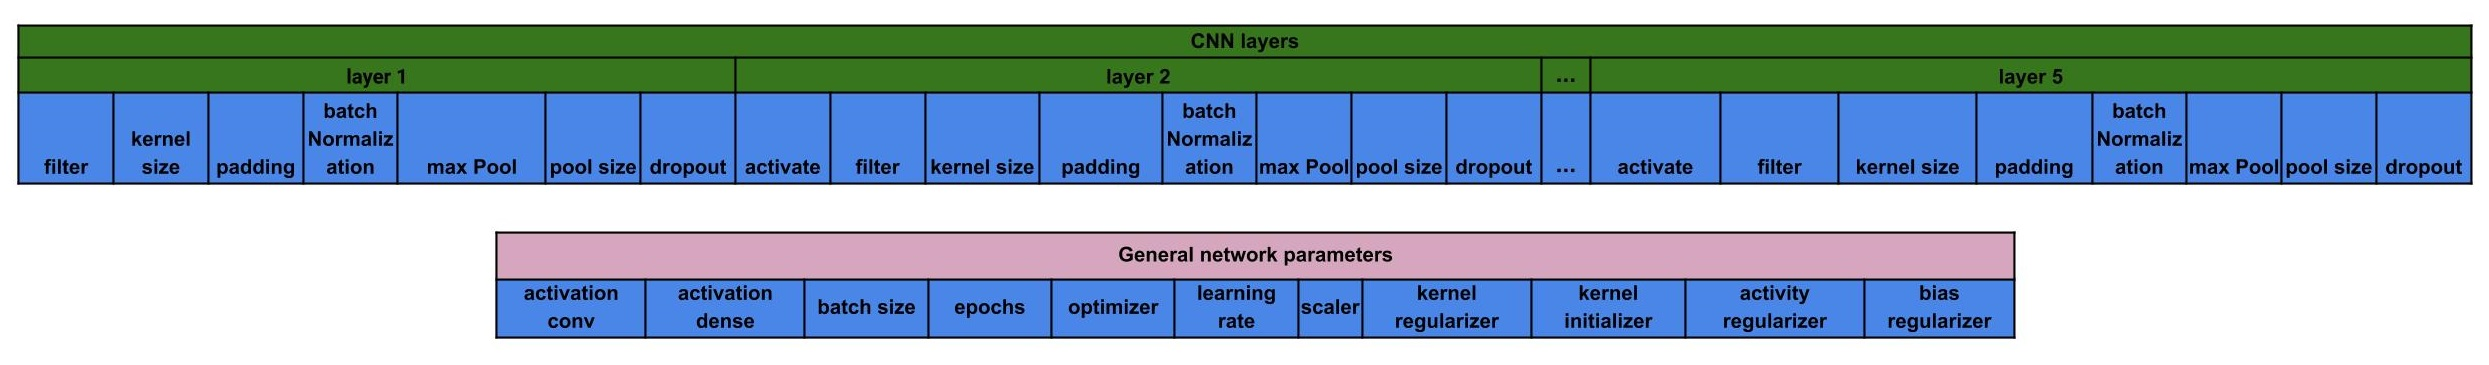
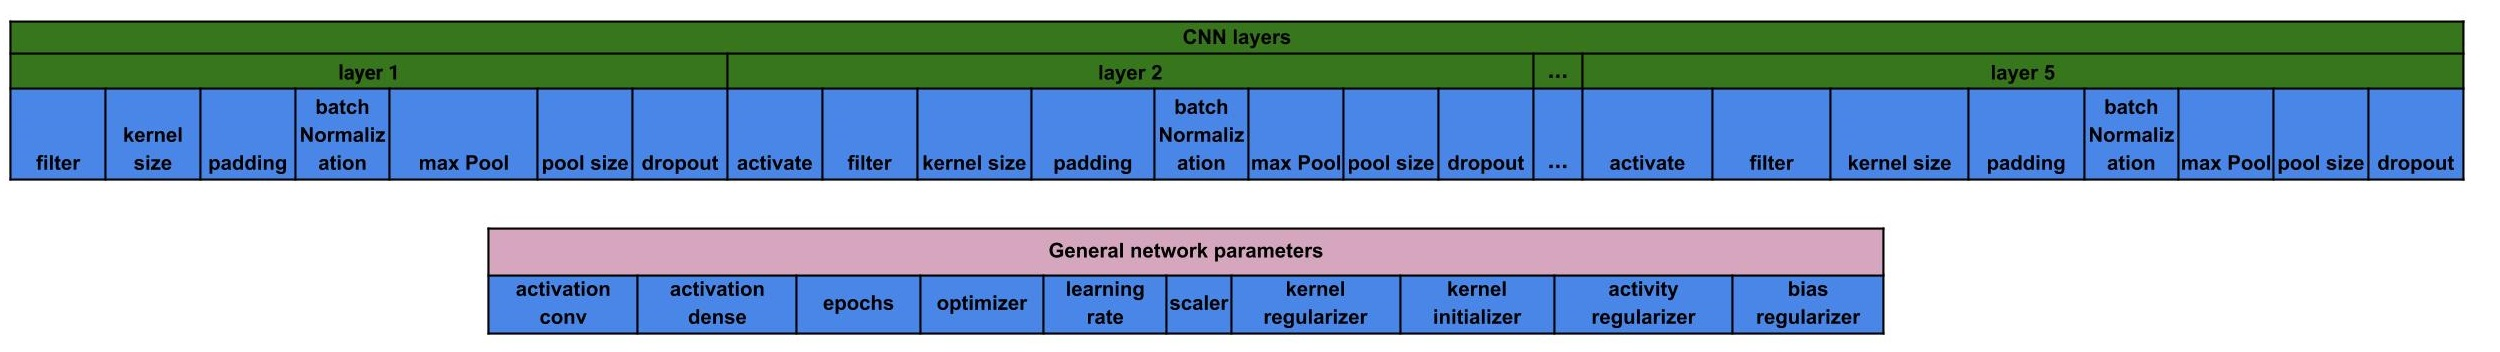
chg: dev: remove batch size from GA

Changed region(s): [[0.0, 0.0312, 1.0, 0.5312], [0.1856, 0.625, 0.8353, 0.9688]]

diff --git a/nnga/genetic_algorithm/__init__.py b/nnga/genetic_algorithm/__init__.py
@@ -6,7 +6,6 @@ CHECK_PARAMETERS_INTERVAL = {
     "MAX_POOL": [True, False],
     "POOL_SIZE": {"MIN": 2, "MAX": 20},
     "BATCH_NORMALIZATION": [True, False],
-    "BATCH_SIZE": {"MIN": 1, "MAX": 15},
     "EPOCHS": {"MIN": 1, "MAX": 2000},
     "DROPOUT": {"MIN": 0.0, "MAX": 1.0},
     "OPTIMIZER": [
@@ -77,7 +76,6 @@ PARAMETERS_INTERVAL = {
     "MAX_POOL": {"type": "string", "value": [True, False]},
     "POOL_SIZE": {"type": "numbers", "value": None},
     "BATCH_NORMALIZATION": {"type": "string", "value": [True, False]},
-    "BATCH_SIZE": {"type": "numbers", "value": None},
     "EPOCHS": {"type": "numbers", "value": None},
     "DROPOUT": {"type": "numbers", "value": None},
     "OPTIMIZER": {"type": "string", "value": None},
@@ -98,7 +96,6 @@ PARAMETERS_INTERVAL = {
 PARAMETERS_ARCHITECTURE = {
     "DEFAULT": {
         "activation_dense": "ACTIVATION_DENSE",
-        "batch_size": "BATCH_SIZE",
         "epochs": "EPOCHS",
         "optimizer": "OPTIMIZER",
         "learning_rate": "LEARNING_RATE",
@@ -150,7 +147,7 @@ def set_parameters(parameters, architecture, backbone, features):
     for key, value in parameters.items():
         PARAMETERS_INTERVAL[key]["value"] = value
 
-    check_parameters()
+    __check_parameters()
     ENCODING, NAME_FEATURES_SELECTION = create_encoding(
         architecture, backbone, features
     )
@@ -158,13 +155,8 @@ def set_parameters(parameters, architecture, backbone, features):
     return ENCODING, NAME_FEATURES_SELECTION, PARAMETERS_INTERVAL
 
 
-def check_parameters():
-    """Check the parameters provided by cfg
-    Parameters
-        ----------
-        Returns
-        -------
-    """
+def __check_parameters():
+    """Check the parameters provided by cfg"""
     for key, parameter in PARAMETERS_INTERVAL.items():
         if key not in CHECK_PARAMETERS_INTERVAL.keys():
             continue

diff --git a/nnga/callbacks/model_checkpoint.py b/nnga/callbacks/model_checkpoint.py
@@ -95,10 +95,9 @@ class ModelCheckpoint(Callback):
 
         if os.path.exists(os.path.join(self.modelpath, "saved_model.pb")):
             self.model = load_model(self.modelpath)
-            if self.verbose:
-                self.logger.info(
-                    f"Weights loaded from file found in {self.modelpath}"
-                )
+            self.logger.info(
+                f"Weights loaded from file found in {self.modelpath}"
+            )
 
     def on_epoch_end(self, epoch, logs=None):
         current = logs.get(self.monitor)

diff --git a/nnga/configs/defaults.py b/nnga/configs/defaults.py
@@ -35,7 +35,6 @@ _C.GA.SEARCH_SPACE.UNITS = [20, 50, 80, 100, 150, 200, 250, 500]
 _C.GA.SEARCH_SPACE.FILTERS = [4, 5, 6, 7, 8, 9]
 _C.GA.SEARCH_SPACE.KERNEL_SIZE = [2, 3, 4, 5, 6]
 _C.GA.SEARCH_SPACE.POOL_SIZE = [2, 3, 4, 5]
-_C.GA.SEARCH_SPACE.BATCH_SIZE = [3, 4, 5, 6, 7, 8]
 _C.GA.SEARCH_SPACE.EPOCHS = [30, 45, 60, 90, 120, 150, 200]
 _C.GA.SEARCH_SPACE.DROPOUT = [0.0, 0.1, 0.2, 0.3, 0.4]
 _C.GA.SEARCH_SPACE.OPTIMIZER = ["Adam", "SGD"]

diff --git a/README.md b/README.md
@@ -176,28 +176,26 @@ Not yet implemented
 ## Parameters optimized by the Genetic Algorithm
 ### Optimized parameters for each layer of the Convolutional  Neural Network:
 
-| Parameter | activate | filter | kernel_size | padding | batch_normalization | max_pool | pool_size | dropout |
-| :---: | :---: | :---: | :---: | :---: | :---: | :---: | :---: |  :---: | 
-| Values | True <br/> False | List of integers contained in the range [1:10]. The number of filters is defined by the function: filters = 2^i, where i is the provided value. | List of integers contained in the range [1:20]  | valid <br/> same | True <br/> False | True <br/> False | List of integers contained in the range [1:20] | List of floats contained in the range [0.0:1.0] |
-| Default Values | True <br/> False | [4, 5, 6, 7, 8, 9] | [2, 3, 4, 5, 6]  | valid <br/> same | True <br/> False | True <br/> False | [2, 3, 4, 5] | [0.0, 0.1, 0.2, 0.3, 0.4] |
-| Description | True: this layer is added to the model  <br/><br/> False: this layer is not added to the model  | Integer, the dimensionality of the output space (i.e. the number of output filters in the convolution) | Integer, specifying the height and width of the 2D convolution window. The same value will be used for both dimensions. | Valid: means "no padding" <br/><br/> Same:  results in padding the input such that the output has the same length as the original input | True: Normalize the activations of the previous layer at each batch, i.e. applies a transformation that maintains the mean activation close to 0 and the activation standard deviation close to 1 <br/><br/> False: Does not do anything | True: Applies the max pooling operation <br/><br/> False: Does not do anything	| Integer factor by which to downscale (vertical, horizontal).  The same window length will be used for both dimensions. |	Dropout consists in randomly setting a fraction rate of input units to 0 at each update during training time, which helps prevent overfitting. |
-
+| Parameter      | activate                                                                                       | filter                                                                                                                                          | kernel_size                                                                                                             | padding                                                                                                                                 | batch_normalization                                                                                                                                                                                                                      | max_pool                                                                       | pool_size                                                                                                              | dropout                                                                                                                                        |
+|:--------------:|:----------------------------------------------------------------------------------------------:|:-----------------------------------------------------------------------------------------------------------------------------------------------:|:-----------------------------------------------------------------------------------------------------------------------:|:---------------------------------------------------------------------------------------------------------------------------------------:|:----------------------------------------------------------------------------------------------------------------------------------------------------------------------------------------------------------------------------------------:|:------------------------------------------------------------------------------:|:----------------------------------------------------------------------------------------------------------------------:|:----------------------------------------------------------------------------------------------------------------------------------------------:|
+| Values         | True <br/> False                                                                               | List of integers contained in the range [1:10]. The number of filters is defined by the function: filters = 2^i, where i is the provided value. | List of integers contained in the range [1:20]                                                                          | valid <br/> same                                                                                                                        | True <br/> False                                                                                                                                                                                                                         | True <br/> False                                                               | List of integers contained in the range [1:20]                                                                         | List of floats contained in the range [0.0:1.0]                                                                                                |
+| Default Values | True <br/> False                                                                               | [4, 5, 6, 7, 8, 9]                                                                                                                              | [2, 3, 4, 5, 6]                                                                                                         | valid <br/> same                                                                                                                        | True <br/> False                                                                                                                                                                                                                         | True <br/> False                                                               | [2, 3, 4, 5]                                                                                                           | [0.0, 0.1, 0.2, 0.3, 0.4]                                                                                                                      |
+| Description    | True: this layer is added to the model  <br/><br/> False: this layer is not added to the model | Integer, the dimensionality of the output space (i.e. the number of output filters in the convolution)                                          | Integer, specifying the height and width of the 2D convolution window. The same value will be used for both dimensions. | Valid: means "no padding" <br/><br/> Same:  results in padding the input such that the output has the same length as the original input | True: Normalize the activations of the previous layer at each batch, i.e. applies a transformation that maintains the mean activation close to 0 and the activation standard deviation close to 1 <br/><br/> False: Does not do anything | True: Applies the max pooling operation <br/><br/> False: Does not do anything | Integer factor by which to downscale (vertical, horizontal).  The same window length will be used for both dimensions. | Dropout consists in randomly setting a fraction rate of input units to 0 at each update during training time, which helps prevent overfitting. |
 ### Optimized parameters for each layer of the Multilayer Perceptron:
 
-| Parameter | activate | units | dropout |
-| :---: | :---: | :---: | :---: |
-| Values | True <br/> False | List of integers contained in the range [1:5000] | List of floats contained in the range [0.0:1.0] |
-| Default Values | True <br/> False | [20, 50, 80, 100, 150, 200, 250, 500] | [0.0, 0.1, 0.2, 0.3, 0.4] |
-| Description | True: this layer is added to the model  <br/><br/> False: this layer is not added to the model" | The amount of neurons in the dense layer. | Dropout consists in randomly setting a fraction rate of input units to 0 at each update during training time, which helps prevent overfitting. |
+|    Parameter   |                                             activate                                            |                       units                      |                                                                     dropout                                                                    |
+|:--------------:|:-----------------------------------------------------------------------------------------------:|:------------------------------------------------:|:----------------------------------------------------------------------------------------------------------------------------------------------:|
+|     Values     |                                         True <br/> False                                        | List of integers contained in the range [1:5000] |                                                 List of floats contained in the range [0.0:1.0]                                                |
+| Default Values |                                         True <br/> False                                        |       [20, 50, 80, 100, 150, 200, 250, 500]      |                                                            [0.0, 0.1, 0.2, 0.3, 0.4]                                                           |
+|   Description  | True: this layer is added to the model  <br/><br/> False: this layer is not added to the model" |     The amount of neurons in the dense layer.    | Dropout consists in randomly setting a fraction rate of input units to 0 at each update during training time, which helps prevent overfitting. |
 
 ### Optimized model parameters:
 
-| Parameter | activation_cnn | activation_dense | batch_size | epochs | optimizer | learning_rate | scaler | kernel_regularizer | kernel_initializer | activity_regularizer | bias_regularizer |
-| :---: | :---: | :---: | :---: | :---: | :---: | :---: | :---: | :---: | :---: | :---: | :---: |
-| Values | List of activation functions, among the options:  <br/><br/> relu <br/> tanh <br/> elu <br/> softmax <br/> selu <br/> softplus <br/> softsign <br/> sigmoid <br/> hard_sigmoid <br/> exponential <br/> linear | List of activation functions, among the options:  <br/><br/> relu <br/> tanh <br/> elu <br/> softmax <br/> selu <br/> softplus <br/> softsign <br/> sigmoid <br/> hard_sigmoid <br/> exponential <br/> linear  |  List of integers contained in the range [1:15]. The batch_size is defined by the function: filters = 2^i, where i is the provided value. |  List of integers contained in the range [1:2000] | List of optimizers, among the options:  <br/><br/> Adam <br/> SGD <br/> RMSprop <br/> Adagrad <br/> Adadelta <br/> Adamax <br/> Nadam  | List of floats contained in the range [1E-5:1.0] | List of scaler functions, among the options:  <br/><br/> Standard <br/> MinMax | List of regularizer functions, among the options:  <br/><br/> None  <br/> l1 <br/> l2 <br/> l1_l2 | List of inicializer functions, among the options:  <br/><br/> Zeros <br/> Ones <br/> RandomNormal <br/> RandomUniform <br/> TruncatedNormal <br/> VarianceScaling <br/> Orthogonal <br/> lecun_uniform <br/> glorot_normal <br/> glorot_uniform <br/> he_normal <br/> lecun_normal <br/> he_uniform | List of regularizer functions, among the options:  <br/><br/> None  <br/> l1 <br/> l2 <br/> l1_l2 | List of regularizer functions, among the options:  <br/><br/> None  <br/> l1 <br/> l2 <br/> l1_l2 | 
-| Default Values | ['relu', 'tanh'] | ['relu', 'tanh']  | [3, 4, 5, 6, 7, 8] |  [30, 45, 60, 90, 120, 150, 200] | ['Adam', 'SGD'] | [0.0001, 0.001, 0.01, 0.05, 0.1] | ['Standard', 'MinMax'] | [None] | ['glorot_uniform'] | [None] | [None] | 
-| Description | Activation function to use in the CNN layers. | Activation function to use in the Dense layers. | Number of samples per gradient update. | Number of epochs to train the model. | Optimizer used in training the model. | Learning rate used in training the model. | Standardization method used to scale the data | Regularizer function applied to the kernel weights matrix. <br/> https://keras.io/regularizers/ |  Initializer for the kernel weights matrix. <br/> https://keras.io/initializers/ | Regularizer function applied to the output of the layer (its activation). <br/> https://keras.io/regularizers/ | Regularizer function applied to the bias vector. <br/> https://keras.io/regularizers/ |
-
+|    Parameter   |                                                                                                 activation_cnn                                                                                                |                                                                                                activation_dense                                                                                               |                      epochs                      |                                                               optimizer                                                               |                   learning_rate                  |                                     scaler                                     |                                         kernel_regularizer                                        |                                                                                                                                          kernel_initializer                                                                                                                                         |                                              activity_regularizer                                              |                                          bias_regularizer                                         |
+|:--------------:|:-------------------------------------------------------------------------------------------------------------------------------------------------------------------------------------------------------------:|:-------------------------------------------------------------------------------------------------------------------------------------------------------------------------------------------------------------:|:------------------------------------------------:|:-------------------------------------------------------------------------------------------------------------------------------------:|:------------------------------------------------:|:------------------------------------------------------------------------------:|:-------------------------------------------------------------------------------------------------:|:---------------------------------------------------------------------------------------------------------------------------------------------------------------------------------------------------------------------------------------------------------------------------------------------------:|:--------------------------------------------------------------------------------------------------------------:|:-------------------------------------------------------------------------------------------------:|
+|     Values     | List of activation functions, among the options:  <br/><br/> relu <br/> tanh <br/> elu <br/> softmax <br/> selu <br/> softplus <br/> softsign <br/> sigmoid <br/> hard_sigmoid <br/> exponential <br/> linear | List of activation functions, among the options:  <br/><br/> relu <br/> tanh <br/> elu <br/> softmax <br/> selu <br/> softplus <br/> softsign <br/> sigmoid <br/> hard_sigmoid <br/> exponential <br/> linear | List of integers contained in the range [1:2000] | List of optimizers, among the options:  <br/><br/> Adam <br/> SGD <br/> RMSprop <br/> Adagrad <br/> Adadelta <br/> Adamax <br/> Nadam | List of floats contained in the range [1E-5:1.0] | List of scaler functions, among the options:  <br/><br/> Standard <br/> MinMax | List of regularizer functions, among the options:  <br/><br/> None  <br/> l1 <br/> l2 <br/> l1_l2 | List of inicializer functions, among the options:  <br/><br/> Zeros <br/> Ones <br/> RandomNormal <br/> RandomUniform <br/> TruncatedNormal <br/> VarianceScaling <br/> Orthogonal <br/> lecun_uniform <br/> glorot_normal <br/> glorot_uniform <br/> he_normal <br/> lecun_normal <br/> he_uniform |        List of regularizer functions, among the options:  <br/><br/> None  <br/> l1 <br/> l2 <br/> l1_l2       | List of regularizer functions, among the options:  <br/><br/> None  <br/> l1 <br/> l2 <br/> l1_l2 |
+| Default Values |                                                                                                ['relu', 'tanh']                                                                                               |                                                                                                ['relu', 'tanh']                                                                                               |          [30, 45, 60, 90, 120, 150, 200]         |                                                            ['Adam', 'SGD']                                                            |         [0.0001, 0.001, 0.01, 0.05, 0.1]         |                             ['Standard', 'MinMax']                             |                                               [None]                                              |                                                                                                                                          ['glorot_uniform']                                                                                                                                         |                                                     [None]                                                     |                                               [None]                                              |
+|   Description  |                                                                                 Activation function to use in the CNN layers.                                                                                 |                                                                                Activation function to use in the Dense layers.                                                                                |       Number of epochs to train the model.       |                                                 Optimizer used in training the model.                                                 |     Learning rate used in training the model.    |                  Standardization method used to scale the data                 |  Regularizer function applied to the kernel weights matrix. <br/> https://keras.io/regularizers/  |                                                                                                           Initializer for the kernel weights matrix. <br/> https://keras.io/initializers/                                                                                                           | Regularizer function applied to the output of the layer (its activation). <br/> https://keras.io/regularizers/ |       Regularizer function applied to the bias vector. <br/> https://keras.io/regularizers/       |
 ## Datasets Formats
 
 ### Classification
@@ -233,15 +231,15 @@ The directory structure should look like this:
 #### CSV Dataset Structure
 The CSV structure should look like this:
 
-| id | feature 1 | feature 2 | ... | feature N | class |
-| :---: | :---: | :---: | :---: | :---: | :---: |
-| image_001 | 0.33 | 0.06 | ... | 0.12 | class_1 |
-| image_002 | 0.31 | 0.38 | ... | 0.74 | class_1 |
-| image_003 | 0.28 | 0.56 | ... | 0.18 | class_2 |
-| image_004 | 0.02 | 0.78 | ... | 0.65 | class_2 |
-| image_005 | 0.97 | 0.67 | ... | 0.13 | class_3 |
-| ... | ... | ... | ... | ... | ... |
-| image_N | 0.28 | 0.39 | ... | 0.51 | class_N |
+|     id    | feature 1 | feature 2 | ... | feature N |  class  |
+|:---------:|:---------:|:---------:|:---:|:---------:|:-------:|
+| image_001 |    0.33   |    0.06   | ... |    0.12   | class_1 |
+| image_002 |    0.31   |    0.38   | ... |    0.74   | class_1 |
+| image_003 |    0.28   |    0.56   | ... |    0.18   | class_2 |
+| image_004 |    0.02   |    0.78   | ... |    0.65   | class_2 |
+| image_005 |    0.97   |    0.67   | ... |    0.13   | class_3 |
+|    ...    |    ...    |    ...    | ... |    ...    |   ...   |
+|  image_N  |    0.28   |    0.39   | ... |    0.51   | class_N |
 
 
 The file can be sep = ',' and decimal point = '.':

diff --git a/getting-started.md b/getting-started.md
@@ -71,7 +71,6 @@ GA:
     FILTERS: [4, 5, 6, 7, 8, 9]
     KERNEL_SIZE: [2, 3, 4, 5, 6]
     POOL_SIZE: [2, 3, 4, 5]
-    BATCH_SIZE: [3, 4, 5, 6, 7, 8]
     EPOCHS: [30, 45, 60, 90, 120, 150, 200]
     DROPOUT: [0.0, 0.1, 0.2, 0.3, 0.4]
     OPTIMIZER: ['Adam', 'SGD']
@@ -244,9 +243,6 @@ GA:
 
     # Pooling size to be used by Pooling layer
     POOL_SIZE: [2, 3, 4, 5]
-
-    # Batch size to be used during the model train
-    BATCH_SIZE: [3, 4, 5, 6, 7, 8]
   
     # Number of epochs to train the model
     EPOCHS: [30, 45, 60, 90, 120, 150, 200]
@@ -349,7 +345,6 @@ SOLVER:
   TEST_SIZE: 0.2
   
   # Batch size to be used during the model train
-  # Is used only when the BACKBONE is not "GASearch"
   BATCH_SIZE: 128
 
   # Number of epochs to train the model
